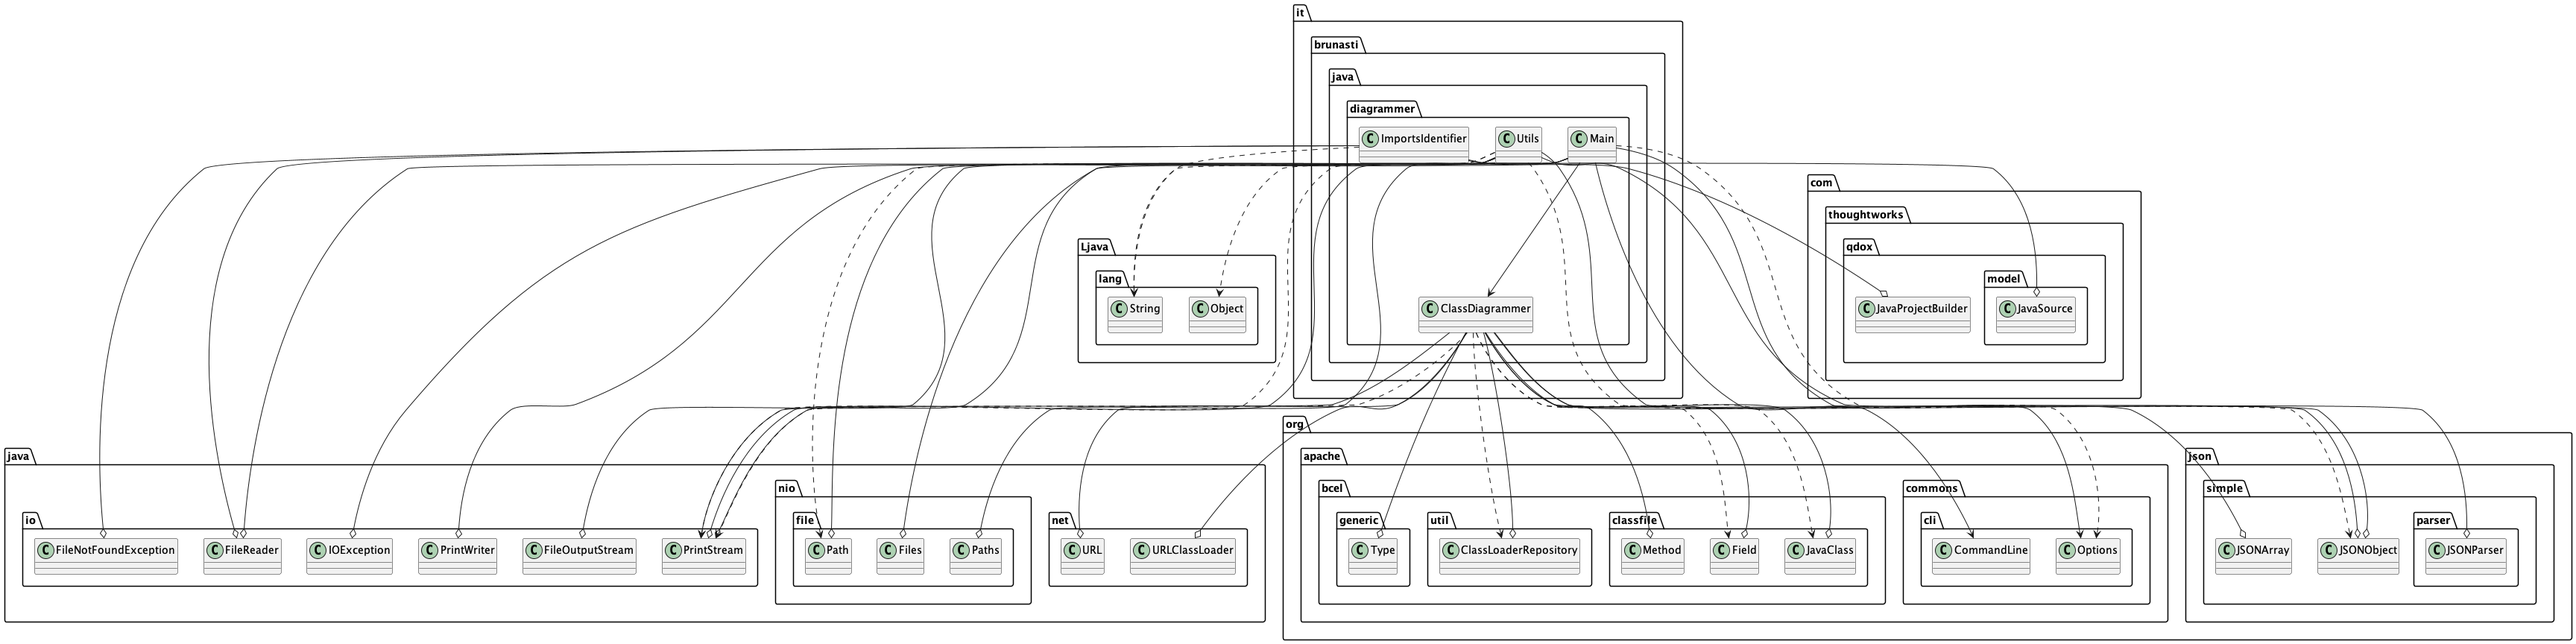
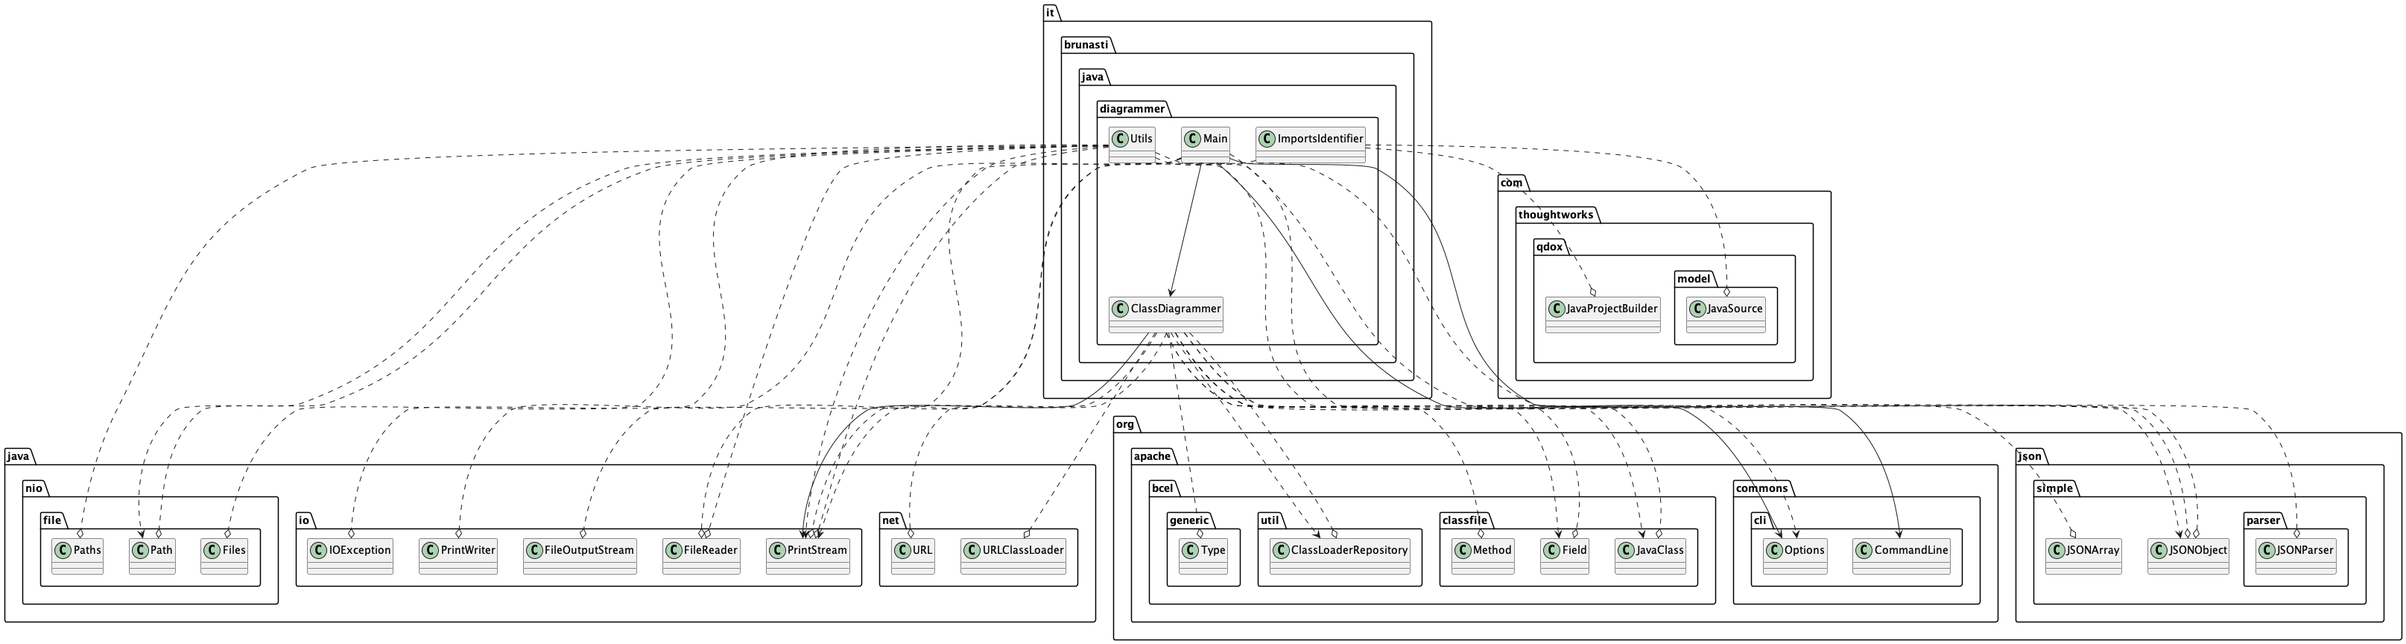
Enumeration fields and exclude config

diff --git a/src/main/java/it/brunasti/java/diagrammer/ClassDiagrammer.java b/src/main/java/it/brunasti/java/diagrammer/ClassDiagrammer.java
@@ -111,11 +111,8 @@ public class ClassDiagrammer {
     toBeExcludedPackages = new HashSet<>();
     toBeExcludedClasses = new HashSet<>();
     if ((null == configurationFileName) || (configurationFileName.isBlank())) {
+      toBeExcludedPackages.add("Ljava.lang.");
       toBeExcludedPackages.add("java.lang.");
-      toBeExcludedPackages.add("java.util.");
-
-      toBeExcludedClasses.add("org.slf4j.Logger");
-      toBeExcludedClasses.add("org.joda.time.DateTime");
     } else {
       JSONObject jsonObject = Utils.loadConfigurationFile(configurationFileName);
       if (null == jsonObject) {
@@ -316,101 +313,25 @@ public class ClassDiagrammer {
   private void generateEnum(JavaClass javaClass, ClassLoader classLoader) {
     // TODO Handle enumeration "fields"
     Main.debug("ENUM : " + javaClass.getClassName());
-    String[] enumFields = null;
+    String[] enumFields = new String[0];
 
     try {
       Class loadedClass = classLoader.loadClass(javaClass.getClassName());
-//      Main.debug("  - o : " + loadedClass);
-//      Main.debug("  - o : " + loadedClass.isEnum());
+      Main.debug("  - loadedClass : " + loadedClass);
+      Main.debug("  - loadedClass : " + loadedClass.isEnum());
 
-//      Main.debug("  - o.f : " + loadedClass.getFields());
-//      Main.debug("  - o.f : " + loadedClass.getFields().length);
       enumFields = new String[loadedClass.getFields().length];
-
       int i = 0;
       for (java.lang.reflect.Field field : loadedClass.getFields()) {
-//        Main.debug("      - o.Field : " + field);
-//        Main.debug("      - o.Name : " + field.getName());
+        Main.debug("      - loadedClass.Field : " + field);
+        Main.debug("      - loadedClass.Field.Name : " + field.getName());
         enumFields[i] = field.getName();
         i++;
       }
 
-//      Main.debug("  - o.ec : " + loadedClass.getEnumConstants());
-//      Main.debug("  - o.ec : " + loadedClass.getEnumConstants().length);
-//      for (Object field : loadedClass.getEnumConstants()) {
-//        Main.debug("      - o.ec.object : " + field);
-////            Main.debug("      - o.Name : " + field.getName());
-//      }
-//      Main.debug("  - o.m : " + loadedClass.getDeclaredMethods());
-//      Main.debug("  - o.m : " + loadedClass.getDeclaredMethods().length);
-//      for (Object field : loadedClass.getDeclaredMethods()) {
-//        Main.debug("      - o.m .method: " + field);
-////            Main.debug("      - o.Name : " + field.getName());
-//      }
-//
-//      try {
-//        Main.debug("      - o.m .values : ");
-//        java.lang.reflect.Method valuesMethod = loadedClass.getMethod("values");
-//        Main.debug("      - o.m .valuesMethod : " + valuesMethod);
-//        Object[] values = (Object[])valuesMethod.invoke(loadedClass); // pass arg
-//        Main.debug("      - o.m .values : " + values);
-//        Main.debug("      - o.m .values : " + values.length);
-//        for (Object value : values) {
-//          Main.debug("      - o.m .value: " + value);
-//        }
-//
-//
-//        Main.debug("      - o.e : ");
-//        try {
-//          java.lang.reflect.Method m = loadedClass.getMethod("values", null);
-//          Main.debug("   - invoke " + m.invoke(loadedClass, null));
-//          Object[] objects = (Object[]) m.invoke(loadedClass, null);
-//          Main.debug("   - invoke objects " + objects);
-//          Main.debug("   - invoke objects " + objects.length);
-//          for(Object obj : objects) {
-//            Main.debug("   - invoke - " + obj);
-//          }
-//        } catch (NoSuchMethodException | IllegalAccessException | InvocationTargetException ex) {
-//          Main.debug("could not find enum");
-//        }
-//
-//        Main.debug("      - o.e 2 : ");
-//        Object[] objects = loadedClass.getEnumConstants();
-//// now this is not what I want, but almost
-//        for(Object obj : objects) {
-//          try {
-//            java.lang.reflect.Field keyField = obj.getClass().getDeclaredField("value");
-//            keyField.setAccessible(true); // if it is private for example.
-//            Main.debug("value : " + keyField.get(obj));
-//          } catch (NoSuchFieldException e) {
-//            // fallback to toString()
-//            Main.debug("value : " + obj);
-//          }
-//        }
-//      } catch (Exception e) {
-//        e.printStackTrace();
-//      }
-//
     } catch (Exception ex) {
       ex.printStackTrace();
     }
-//
-//    Main.debug("  - Fields : " + javaClass.getFields());
-//    for (Field field : javaClass.getFields()) {
-//      Main.debug("    - Field : " + field);
-//      Main.debug("    - Sign : " + field.getSignature());
-//      Main.debug("    - Name : " + field.getName());
-//    }
-//    Main.debug("  - constant : " + javaClass.getConstantPool().getConstantPool());
-//    Main.debug("  - constant : " + javaClass.getConstantPool().getConstantPool().length);
-//    for (Constant c : javaClass.getConstantPool().getConstantPool()) {
-//      Main.debug("      - Const : " + c);
-//    }
-//    Main.debug("  - methods : " + javaClass.getMethods());
-//    Main.debug("  - methods : " + javaClass.getMethods().length);
-//    for (Method c : javaClass.getMethods()) {
-//      Main.debug("      - method : " + c);
-//    }
 
     output.println("enum " + javaClass.getClassName() + "{");
     for (String enumValue : enumFields) {
@@ -435,8 +356,6 @@ public class ClassDiagrammer {
       }
     });
     output.println();
-
-//    Main.setDebug(false);
   }
 
   private void generateFooter() {
@@ -457,6 +376,7 @@ public class ClassDiagrammer {
     }
     output.println("' Configuration   : [" + configurationFile + "]");
     output.println("' Generated at    : " + now);
+    // TODO : Add legenda for the types of links
     output.println();
   }
 

diff --git a/README.md b/README.md
@@ -57,6 +57,10 @@ Example of result of the java-diagrammer applied to itself with the Import analy
 
 ![java-diagrammer class diagram](temp/output-import.png)
 
+Example of result of the java-diagrammer applied to its own test classes:
+
+![java-diagrammer class diagram](temp/output-test.png)
+
 
 --- 
 
